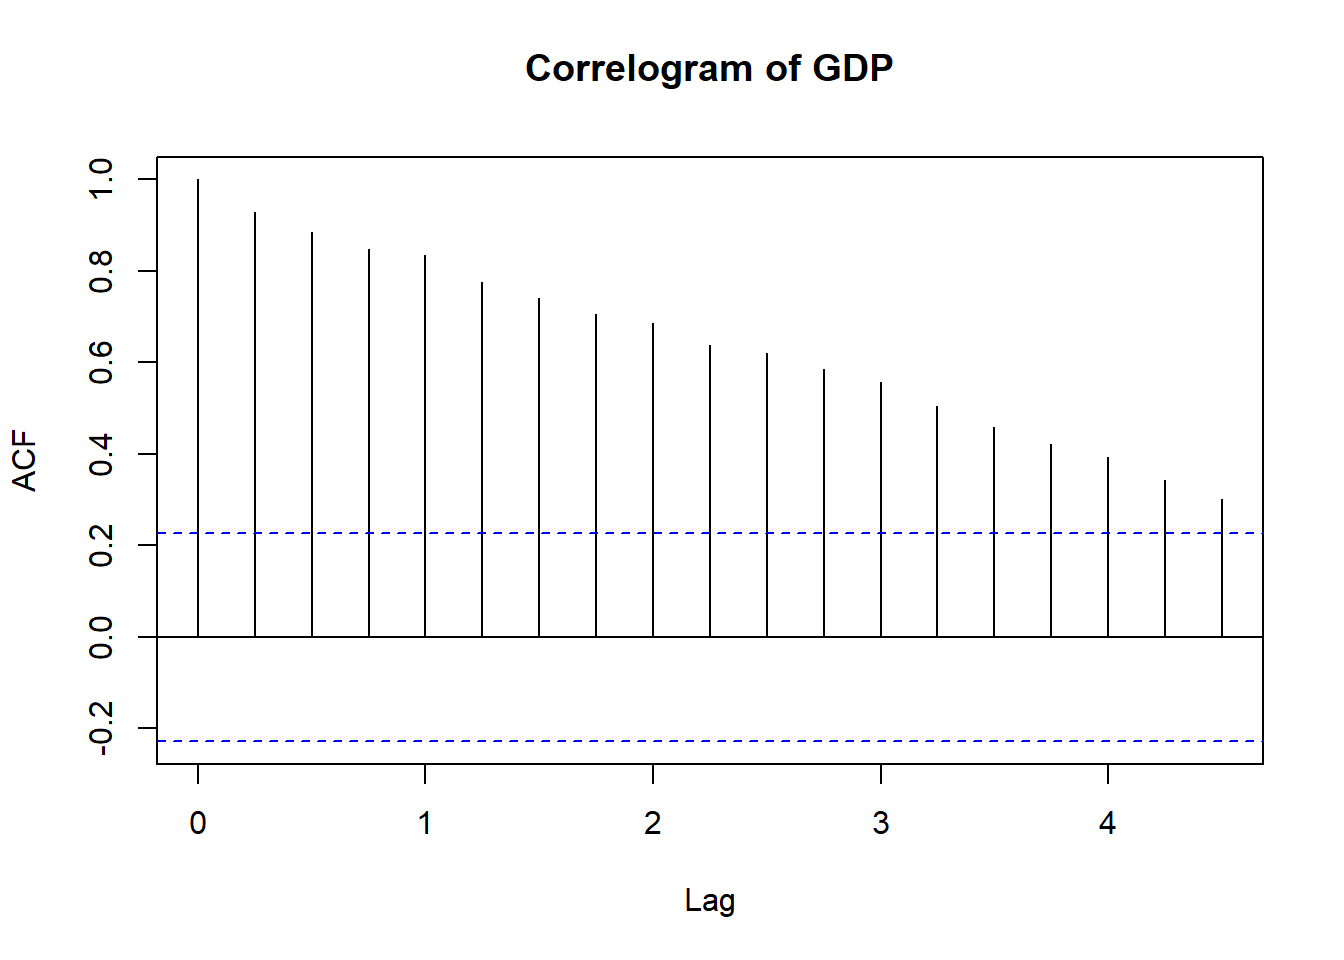
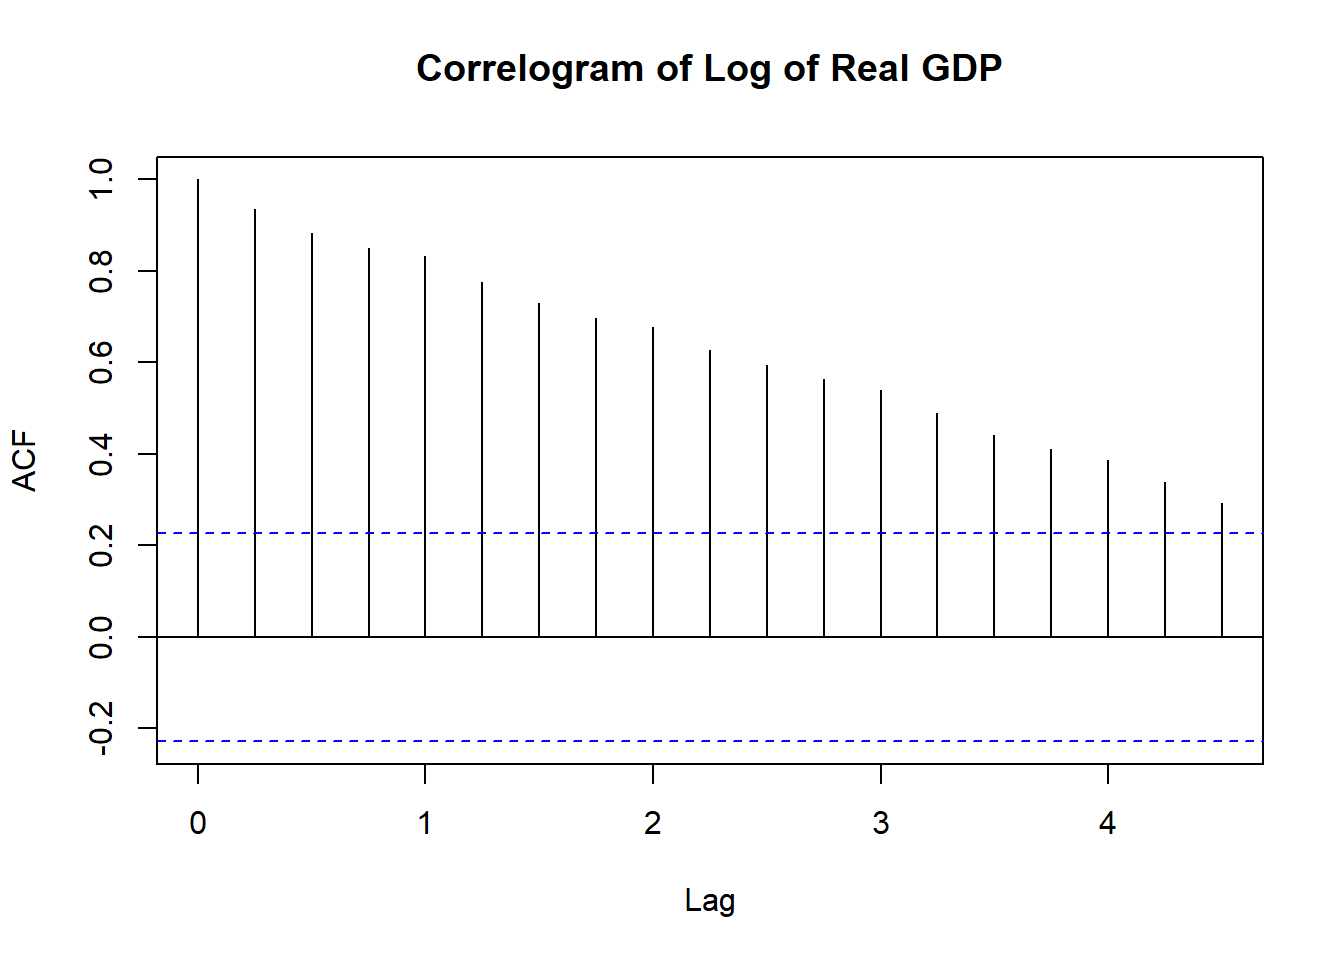
changes in all pages at the end

Changed region(s): [[0.3125, 0.0312, 0.75, 0.0938]]

diff --git a/TSA-gdp.html b/TSA-gdp.html
@@ -1217,48 +1217,54 @@ chart to see the visual trend in the data, as expected it shows
 increasing trend with a steep fall due to COVID-19 pandemic.</p>
 <div class="figure">
 <div class="plotly html-widget html-fill-item-overflow-hidden html-fill-item" id="htmlwidget-e099e7ba01390363606e" style="width:672px;height:480px;"></div>
-<script type="application/json" data-for="htmlwidget-e099e7ba01390363606e">{"x":{"visdat":{"4be4549318e9":["function () ","plotlyVisDat"]},"cur_data":"4be4549318e9","attrs":{"4be4549318e9":{"x":{},"y":{},"mode":"lines+markers","marker":{"color":"blue"},"line":{"width":3,"dash":null,"color":"blue"},"alpha_stroke":1,"sizes":[10,100],"spans":[1,20],"type":"scatter"}},"layout":{"margin":{"b":40,"l":60,"t":25,"r":10},"xaxis":{"domain":[0,1],"automargin":true,"rangeslider":{"type":"date"},"title":"Period","showgrid":false},"yaxis":{"domain":[0,1],"automargin":true,"title":"Rs in Million","showgrid":false},"title":"India Quarterly Gross Domestic Product (Real - Undjusted)<br />        at Domestic Currency [Rs in Lakh Crores]","hovermode":"closest","showlegend":false},"source":"A","config":{"modeBarButtonsToAdd":["hoverclosest","hovercompare"],"showSendToCloud":false},"data":[{"x":[2004.25,2004.5,2004.75,2005,2005.25,2005.5,2005.75,2006,2006.25,2006.5,2006.75,2007,2007.25,2007.5,2007.75,2008,2008.25,2008.5,2008.75,2009,2009.25,2009.5,2009.75,2010,2010.25,2010.5,2010.75,2011,2011.25,2011.5,2011.75,2012,2012.25,2012.5,2012.75,2013,2013.25,2013.5,2013.75,2014,2014.25,2014.5,2014.75,2015,2015.25,2015.5,2015.75,2016,2016.25,2016.5,2016.75,2017,2017.25,2017.5,2017.75,2018,2018.25,2018.5,2018.75,2019,2019.25,2019.5,2019.75,2020,2020.25,2020.5,2020.75,2021,2021.25,2021.5,2021.75,2022,2022.25,2022.5],"y":[11.7336,11.8594,13.3034,13.8245,12.8159,12.8607,14.4971,15.2564,13.765,14.1775,15.8711,16.7515,15.253,15.4734,17.5451,18.2299,16.486,16.5156,17.8143,18.2729,17.3093,17.6649,19.2771,20.6963,19.0911,19.3747,21.3379,22.8334,21.0286,20.4287,22.2514,23.6546,22.0522,21.9595,23.4477,24.6708,23.474,23.5708,24.98,25.989,25.3575,25.6224,26.4595,27.8373,27.2828,27.6809,28.3639,30.3674,29.6509,30.3576,30.7962,32.2773,31.4634,31.972,32.8499,35.1606,33.823,34.0364,34.8976,37.1721,35.4896,35.4622,35.997,38.2108,27.036,33.1093,36.2622,39.1773,32.4643,35.8918,38.2188,40.7803,36.8513,38.1658],"mode":"lines+markers","marker":{"color":"blue","line":{"color":"rgba(31,119,180,1)"}},"line":{"color":"blue","width":3,"dash":[]},"type":"scatter","error_y":{"color":"rgba(31,119,180,1)"},"error_x":{"color":"rgba(31,119,180,1)"},"xaxis":"x","yaxis":"y","frame":null}],"highlight":{"on":"plotly_click","persistent":false,"dynamic":false,"selectize":false,"opacityDim":0.2,"selected":{"opacity":1},"debounce":0},"shinyEvents":["plotly_hover","plotly_click","plotly_selected","plotly_relayout","plotly_brushed","plotly_brushing","plotly_clickannotation","plotly_doubleclick","plotly_deselect","plotly_afterplot","plotly_sunburstclick"],"base_url":"https://plot.ly"},"evals":[],"jsHooks":[]}</script>
+<script type="application/json" data-for="htmlwidget-e099e7ba01390363606e">{"x":{"visdat":{"23e442036f5":["function () ","plotlyVisDat"]},"cur_data":"23e442036f5","attrs":{"23e442036f5":{"x":{},"y":{},"mode":"lines+markers","marker":{"color":"blue"},"line":{"width":3,"dash":null,"color":"blue"},"alpha_stroke":1,"sizes":[10,100],"spans":[1,20],"type":"scatter"}},"layout":{"margin":{"b":40,"l":60,"t":25,"r":10},"xaxis":{"domain":[0,1],"automargin":true,"rangeslider":{"type":"date"},"title":"Period","showgrid":false},"yaxis":{"domain":[0,1],"automargin":true,"title":"Rs in Million","showgrid":false},"title":"India Quarterly Gross Domestic Product (Real - Undjusted)<br />        at Domestic Currency [Rs in Lakh Crores]","hovermode":"closest","showlegend":false},"source":"A","config":{"modeBarButtonsToAdd":["hoverclosest","hovercompare"],"showSendToCloud":false},"data":[{"x":[2004.25,2004.5,2004.75,2005,2005.25,2005.5,2005.75,2006,2006.25,2006.5,2006.75,2007,2007.25,2007.5,2007.75,2008,2008.25,2008.5,2008.75,2009,2009.25,2009.5,2009.75,2010,2010.25,2010.5,2010.75,2011,2011.25,2011.5,2011.75,2012,2012.25,2012.5,2012.75,2013,2013.25,2013.5,2013.75,2014,2014.25,2014.5,2014.75,2015,2015.25,2015.5,2015.75,2016,2016.25,2016.5,2016.75,2017,2017.25,2017.5,2017.75,2018,2018.25,2018.5,2018.75,2019,2019.25,2019.5,2019.75,2020,2020.25,2020.5,2020.75,2021,2021.25,2021.5,2021.75,2022,2022.25,2022.5],"y":[11.7336,11.8594,13.3034,13.8245,12.8159,12.8607,14.4971,15.2564,13.765,14.1775,15.8711,16.7515,15.253,15.4734,17.5451,18.2299,16.486,16.5156,17.8143,18.2729,17.3093,17.6649,19.2771,20.6963,19.0911,19.3747,21.3379,22.8334,21.0286,20.4287,22.2514,23.6546,22.0522,21.9595,23.4477,24.6708,23.474,23.5708,24.98,25.989,25.3575,25.6224,26.4595,27.8373,27.2828,27.6809,28.3639,30.3674,29.6509,30.3576,30.7962,32.2773,31.4634,31.972,32.8499,35.1606,33.823,34.0364,34.8976,37.1721,35.4896,35.4622,35.997,38.2108,27.036,33.1093,36.2622,39.1773,32.4643,35.8918,38.2188,40.7803,36.8513,38.1658],"mode":"lines+markers","marker":{"color":"blue","line":{"color":"rgba(31,119,180,1)"}},"line":{"color":"blue","width":3,"dash":[]},"type":"scatter","error_y":{"color":"rgba(31,119,180,1)"},"error_x":{"color":"rgba(31,119,180,1)"},"xaxis":"x","yaxis":"y","frame":null}],"highlight":{"on":"plotly_click","persistent":false,"dynamic":false,"selectize":false,"opacityDim":0.2,"selected":{"opacity":1},"debounce":0},"shinyEvents":["plotly_hover","plotly_click","plotly_selected","plotly_relayout","plotly_brushed","plotly_brushing","plotly_clickannotation","plotly_doubleclick","plotly_deselect","plotly_afterplot","plotly_sunburstclick"],"base_url":"https://plot.ly"},"evals":[],"jsHooks":[]}</script>
 <p class="caption">
 Fig 1. India quarterly Real GDP in Domestic Currency [Rs in Lakh Crores]
 </p>
 </div>
 <p><strong>Note:</strong> The variation in data is very high since 2020
 (COVID-19 Pandemic starts).</p>
-<hr />
-<p>Checked till now</p>
-<hr />
+<p>It is best practice to convert it into log form to see the linear
+trend in the data instead of changing y-axis units.</p>
+<div class="figure">
+<div class="plotly html-widget html-fill-item-overflow-hidden html-fill-item" id="htmlwidget-c6e1aba2771b4c30bf4f" style="width:672px;height:480px;"></div>
+<script type="application/json" data-for="htmlwidget-c6e1aba2771b4c30bf4f">{"x":{"visdat":{"23e43f727629":["function () ","plotlyVisDat"]},"cur_data":"23e43f727629","attrs":{"23e43f727629":{"x":{},"y":{},"mode":"lines+markers","marker":{"color":"green"},"line":{"width":3,"dash":null,"color":"green"},"alpha_stroke":1,"sizes":[10,100],"spans":[1,20],"type":"scatter"}},"layout":{"margin":{"b":40,"l":60,"t":25,"r":10},"xaxis":{"domain":[0,1],"automargin":true,"rangeslider":{"type":"date"},"title":"Period","showgrid":false},"yaxis":{"domain":[0,1],"automargin":true,"title":"Log(Real GDP)","showgrid":false},"title":"India Quarterly log of Real GDP","hovermode":"closest","showlegend":false},"source":"A","config":{"modeBarButtonsToAdd":["hoverclosest","hovercompare"],"showSendToCloud":false},"data":[{"x":[2004.25,2004.5,2004.75,2005,2005.25,2005.5,2005.75,2006,2006.25,2006.5,2006.75,2007,2007.25,2007.5,2007.75,2008,2008.25,2008.5,2008.75,2009,2009.25,2009.5,2009.75,2010,2010.25,2010.5,2010.75,2011,2011.25,2011.5,2011.75,2012,2012.25,2012.5,2012.75,2013,2013.25,2013.5,2013.75,2014,2014.25,2014.5,2014.75,2015,2015.25,2015.5,2015.75,2016,2016.25,2016.5,2016.75,2017,2017.25,2017.5,2017.75,2018,2018.25,2018.5,2018.75,2019,2019.25,2019.5,2019.75,2020,2020.25,2020.5,2020.75,2021,2021.25,2021.5,2021.75,2022,2022.25,2022.5],"y":[30.093477636879,30.1041419179992,30.2190407575839,30.2574634963176,30.1817077034775,30.185197265605,30.3049697453524,30.3560202030754,30.2531502545231,30.2826773168346,30.3955209612343,30.4495089224289,30.3557973209463,30.3701435365852,30.495795824577,30.5340842191406,30.4335326518196,30.4353265047199,30.5110226214835,30.5364402038809,30.4822650452464,30.5026007358122,30.5899389788597,30.6609760562619,30.5802433737976,30.5949892071771,30.691505950212,30.7592454922324,30.6769045318627,30.6479618908196,30.7334260439096,30.7945787151244,30.724433486087,30.7202209636404,30.7857935249871,30.8366414739943,30.7869145416065,30.7910297737516,30.849096620626,30.8886944875047,30.8640956601966,30.8744880848247,30.9066363779894,30.957397963933,30.9372775829329,30.9517637606003,30.9761383257683,31.0443907805213,31.0205135950431,31.0440680139479,31.0584124216732,31.1053853127093,31.0798460814636,31.0958816356923,31.1229698167145,31.1909472534463,31.1521621603733,31.1584516561091,31.183439174864,31.2465795958169,31.2002608117429,31.1994884563873,31.2144567175789,31.2741393140957,30.9281904271667,31.1308353256152,31.2217969923325,31.2991186133598,31.1111621399747,31.2115299730765,31.2743486570735,31.3392202375951,31.2379120120963,31.2729609425733],"mode":"lines+markers","marker":{"color":"green","line":{"color":"rgba(31,119,180,1)"}},"line":{"color":"green","width":3,"dash":[]},"type":"scatter","error_y":{"color":"rgba(31,119,180,1)"},"error_x":{"color":"rgba(31,119,180,1)"},"xaxis":"x","yaxis":"y","frame":null}],"highlight":{"on":"plotly_click","persistent":false,"dynamic":false,"selectize":false,"opacityDim":0.2,"selected":{"opacity":1},"debounce":0},"shinyEvents":["plotly_hover","plotly_click","plotly_selected","plotly_relayout","plotly_brushed","plotly_brushing","plotly_clickannotation","plotly_doubleclick","plotly_deselect","plotly_afterplot","plotly_sunburstclick"],"base_url":"https://plot.ly"},"evals":[],"jsHooks":[]}</script>
+<p class="caption">
+Fig 2. India quarterly Real log GDP
+</p>
+</div>
 <p>Now, if we apply linear regression model on the Nominal Un-adjusted
 quarterly GDP then,</p>
 <pre><code>## 
 ## Call:
-## lm(formula = ts_gdp_data1 ~ time(ts_gdp_data1))
+## lm(formula = ts_gdp_data2 ~ time(ts_gdp_data2))
 ## 
 ## Residuals:
-##    Min     1Q Median     3Q    Max 
-## -8.415 -0.782  0.053  1.172  3.612 
+##     Min      1Q  Median      3Q     Max 
+## -0.3048 -0.0405  0.0186  0.0468  0.1172 
 ## 
 ## Coefficients:
-##                      Estimate Std. Error t value            Pr(&gt;|t|)    
-## (Intercept)        -3019.8343    75.6581   -39.9 &lt;0.0000000000000002 ***
-## time(ts_gdp_data1)     1.5123     0.0376    40.2 &lt;0.0000000000000002 ***
+##                     Estimate Std. Error t value            Pr(&gt;|t|)    
+## (Intercept)        -97.81979    3.19108   -30.6 &lt;0.0000000000000002 ***
+## time(ts_gdp_data2)   0.06388    0.00158    40.3 &lt;0.0000000000000002 ***
 ## ---
 ## Signif. codes:  0 &#39;***&#39; 0.001 &#39;**&#39; 0.01 &#39;*&#39; 0.05 &#39;.&#39; 0.1 &#39; &#39; 1
 ## 
-## Residual standard error: 1.73 on 72 degrees of freedom
-## Multiple R-squared:  0.957,  Adjusted R-squared:  0.957 
+## Residual standard error: 0.0728 on 72 degrees of freedom
+## Multiple R-squared:  0.958,  Adjusted R-squared:  0.957 
 ## F-statistic: 1.62e+03 on 1 and 72 DF,  p-value: &lt;0.0000000000000002</code></pre>
 <p>Here, the overall model is statistically significant as the p-value
 is very small. Both the intercept and slope coefficients are
 statistically significant but the intercept coefficient does not provide
 any economic reasoning due to negative value.</p>
 <div class="figure" style="text-align: center">
-<img src="TSA-gdp_files/figure-html/basic_lm_graph-1.png" alt="Fig 2. India Quarterly GDP data and linear trend" width="672" />
+<img src="TSA-gdp_files/figure-html/basic_lm_graph-1.png" alt="Fig 2. Log of India Quarterly Real GDP and linear trend" width="672" />
 <p class="caption">
-Fig 2. India Quarterly GDP data and linear trend
+Fig 2. Log of India Quarterly Real GDP and linear trend
 </p>
 </div>
-<p>Figure 2 shows the linear trend and actual quarterly India Nominal
-GDP values. One of the important assumption for linear regression is
+<p>Figure 2 shows the linear trend and log of quarterly India Real GDP
+values. One of the important assumption for linear regression is
 <strong>Residuals Distributed Normally</strong>. It is also to know the
 residuals are random or not, which is essential for explaining relation
 in the data.</p>
@@ -1284,7 +1290,7 @@ Fig 5. Residuals vs fitted - Homoscedasticity check
 ##  Shapiro-Wilk normality test
 ## 
 ## data:  gdp.residuals
-## W = 0.89, p-value = 0.000007</code></pre>
+## W = 0.9, p-value = 0.00003</code></pre>
 <p>As we can see that the residuals are Non-normally distributed or
 Skewed distributed both visually and using the test. So, this model
 can’t be used for inferential or predictive purpose.</p>
@@ -1314,7 +1320,7 @@ stationary.</p>
 <p>Correlogram after detrend the data,</p>
 <p><img src="TSA-gdp_files/figure-html/detrended%20acf-1.png" width="672" /></p>
 <hr />
-<p><strong>WIP on Weekends</strong></p>
+<p><strong>WIP</strong></p>
 </div>
 
 

diff --git a/gdp-components.html b/gdp-components.html
@@ -455,6 +455,8 @@ constant market prices.</p>
   </script>
 </div>
 <p><img src="gdp-components_files/figure-html/graph_1-1.png" width="80%" /></p>
+<hr />
+<p><strong>WIP</strong></p>
 </div>
 
 
